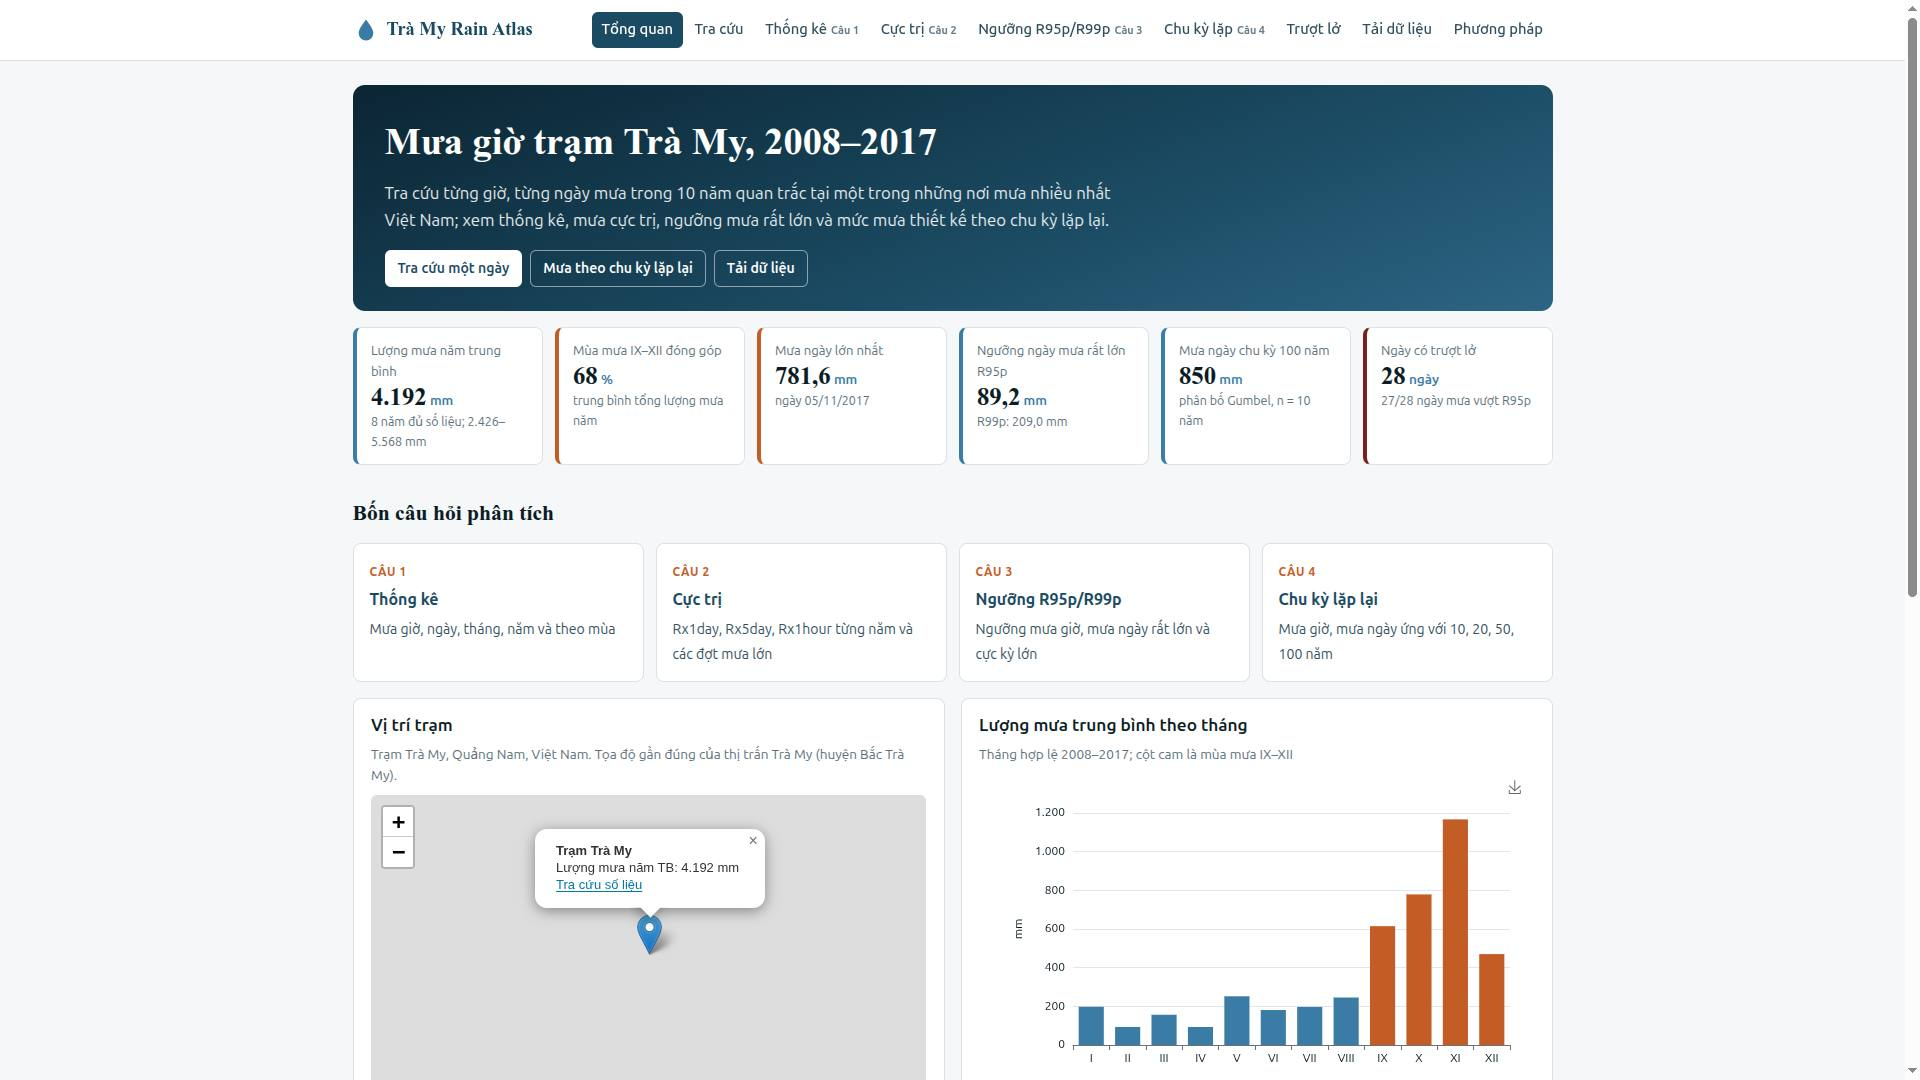
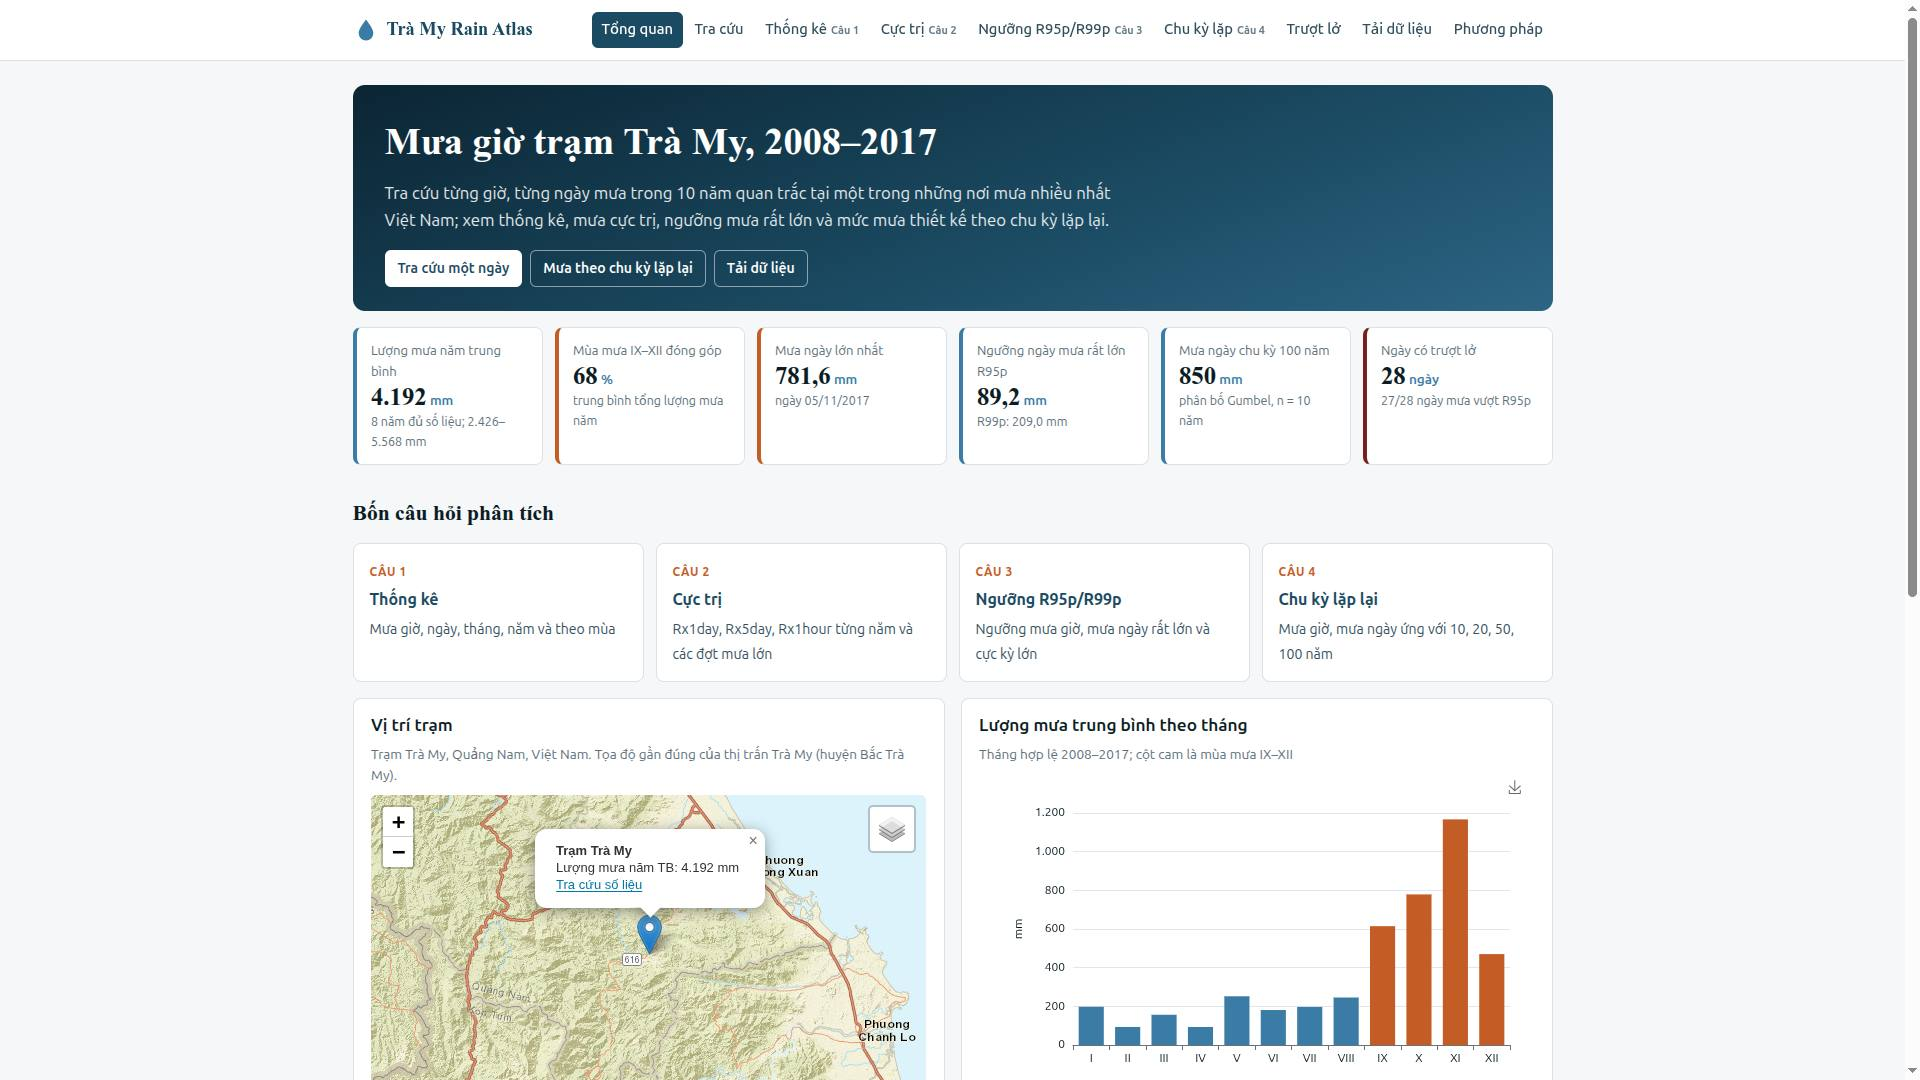
README: ảnh chụp trang tổng quan có bản đồ, ghi nguồn ảnh nền

Changed region(s): [[0.1875, 0.7333, 0.5, 1.0]]

diff --git a/README.md b/README.md
@@ -45,7 +45,8 @@ Chuỗi cực đại năm chỉ có 10 năm nên các mức 50–100 năm là ng
 ## Công nghệ
 
 - **Không cần máy chủ, không có bước build:** HTML, CSS, JavaScript ES modules
-- **Biểu đồ:** [Apache ECharts](https://echarts.apache.org/) 5.5.1 · **Bản đồ:** [Leaflet](https://leafletjs.com/) 1.9.4 + OpenStreetMap (thư viện lưu sẵn trong `vendor/`)
+- **Biểu đồ:** [Apache ECharts](https://echarts.apache.org/) 5.5.1 · **Bản đồ:** [Leaflet](https://leafletjs.com/) 1.9.4 (thư viện lưu sẵn trong `vendor/`), ảnh nền Esri (mặc định), OpenTopoMap, OpenStreetMap
+- **Cập nhật không bị cache cũ:** mỗi lần triển khai, CI gắn mã commit vào đường dẫn các file JS/CSS/JSON
 - **Dữ liệu:** tính bằng Python 3.12 (pandas, numpy, scipy), xuất JSON gọn (khoảng 0,5 MB)
 - **Triển khai:** GitHub Actions kiểm tra dữ liệu (`scripts/validate_data.py`) rồi đưa lên GitHub Pages sau mỗi lần push vào nhánh `main`
 
